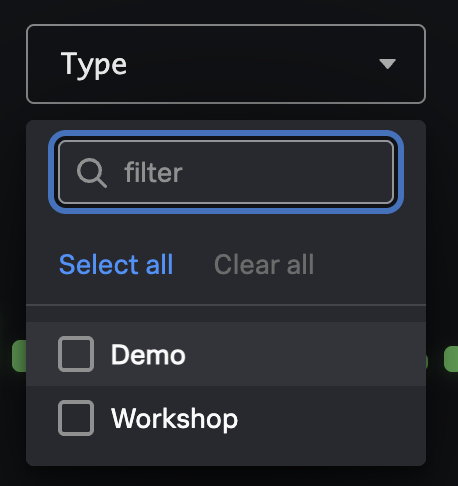
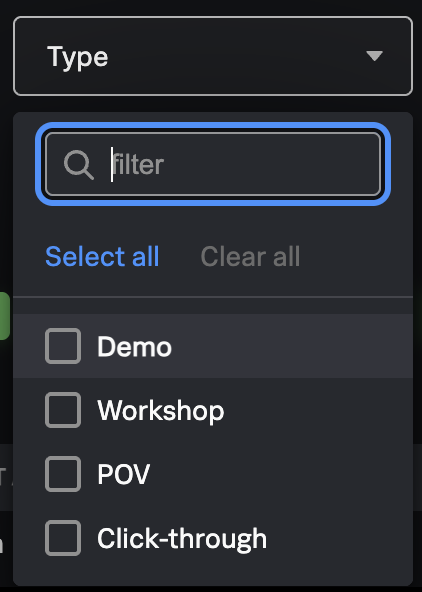
added pov content

Changed region(s): [[0.0, 0.0, 1.0, 1.0], [0.0924, 0.4938, 0.4005, 0.6173], [0.4621, 0.5247, 0.7085, 0.5864]]

diff --git a/layouts/_partials/card-from-page.html b/layouts/_partials/card-from-page.html
@@ -13,6 +13,7 @@
   "search"           "M21 21l-4.35-4.35|M17 11a6 6 0 1 1-12 0 6 6 0 0 1 12 0z"
   "library"          "M2 3h6a4 4 0 0 1 4 4v14a3 3 0 0 0-3-3H2z|M22 3h-6a4 4 0 0 0-4 4v14a3 3 0 0 1 3-3h7z"
   "play-circle"      "M22 12a10 10 0 1 1-20 0 10 10 0 0 1 20 0z|M10 8l6 4-6 4V8z"
+  "badge-check"      "M3.85 8.62a4 4 0 0 1 4.78-4.77 4 4 0 0 1 6.74 0 4 4 0 0 1 4.78 4.78 4 4 0 0 1 0 6.74 4 4 0 0 1-4.77 4.78 4 4 0 0 1-6.75 0 4 4 0 0 1-4.78-4.77 4 4 0 0 1 0-6.76z|M9 12l2 2 4-4"
   "calendar"         "M8 2v4|M16 2v4|M3 10h18|M5 4h14a2 2 0 0 1 2 2v14a2 2 0 0 1-2 2H5a2 2 0 0 1-2-2V6a2 2 0 0 1 2-2z"
   "globe"            "M12 2a10 10 0 1 0 0 20A10 10 0 0 0 12 2z|M2 12h20|M12 2a15.3 15.3 0 0 1 4 10 15.3 15.3 0 0 1-4 10 15.3 15.3 0 0 1-4-10A15.3 15.3 0 0 1 12 2z"
   "sliders"          "M4 21v-7|M4 10V3|M12 21v-9|M12 8V3|M20 21v-5|M20 12V3|M1 14h6|M9 8h6|M17 16h6"

diff --git a/content/catalog/_index.md b/content/catalog/_index.md
@@ -16,7 +16,7 @@ The Catalog page provides a tabular view of all content that you have access to 
 <figure style="max-width: 80%; margin: 0 0 1rem 0;">
 </figure>
 
-* **Type** dropdown - Filter by type of content, such as demos or workshops
+* **Type** dropdown - Filter by type of content, such as demos, workshops, POVs (Splunkers only) or click-throughs
   <img src="/splunk-show-docs/images/type_dropdown.png" alt="my_page" style="width: 20%; height: auto; display: block; margin: 0;">
 
 * **Request** dropdown - Filter by the type of request, such as on-demand demos, always on demos (formerly called "static demos") or shared demos.
@@ -27,6 +27,10 @@ The Catalog page provides a tabular view of all content that you have access to 
 
 * **More filters** - Provides an additional set of filters to help you further refine the results.
   <img src="/splunk-show-docs/images/catalog_more_filters.png" alt="my_page" style="width: 50%; height: auto; display: block; margin: 0;">
+
+{{% notice style="info" title="Proof of Value (POV) Workshops" %}}
+<span class="badge-splunkers">Splunkers only</span> For more information on POVs, please see [POV FAQ](https://splunk.show/pov-faq).
+{{% /notice %}}
 
 {{% notice style="info" title="Shared Demos" %}}
 For more information on leveraging shared demos please see [Shared Demos](/demos/shared-demos/).

diff --git a/content/workshops/creating-workshops.md b/content/workshops/creating-workshops.md
@@ -100,7 +100,7 @@ The reason for the workshop, which has the following options (Please expand the 
 
 * **DNS Prefix** - a customisable label that will be included in the DNS records and instance URLs for this workshop. This helps organize the instance URLs once provisioned. For example, entering `abc` as the prefix will result in instance URLs that looks like this:  
   `https://abc-i-08115630654cebf93.splunk.show`
-* **SSH Access** - (only available on some Some Enterprise based templates) Uncommon for workshops but is required in a select few where SSH access is part of the exercises and has also been authorized by the workshop owner. Where SSH is required for the workshop it will be enabled, otherwise this option will typically be disabled and unavailable for workshops.
+* **SSH Access** - (only available on some Enterprise based templates) Uncommon for workshops but is required in a select few where SSH access is part of the exercises and has also been authorized by the workshop owner. Where SSH is required for the workshop it will be enabled, otherwise this option will typically be disabled and unavailable for workshops.
 
 ## Runtime
 

diff --git a/content/povs/_index.md b/content/povs/_index.md
@@ -1,0 +1,9 @@
+---
+title: "Proof of Value (POV)"
+weight: 50
+icon: "badge-check"
+---
+<span class="badge-splunkers">Splunkers only</span>
+<!-- # POVs -->
+
+To learn how to run a Proof of Value (POV) event via Splunk Show, please see [POV FAQ](https://splunk.show/pov-faq).
